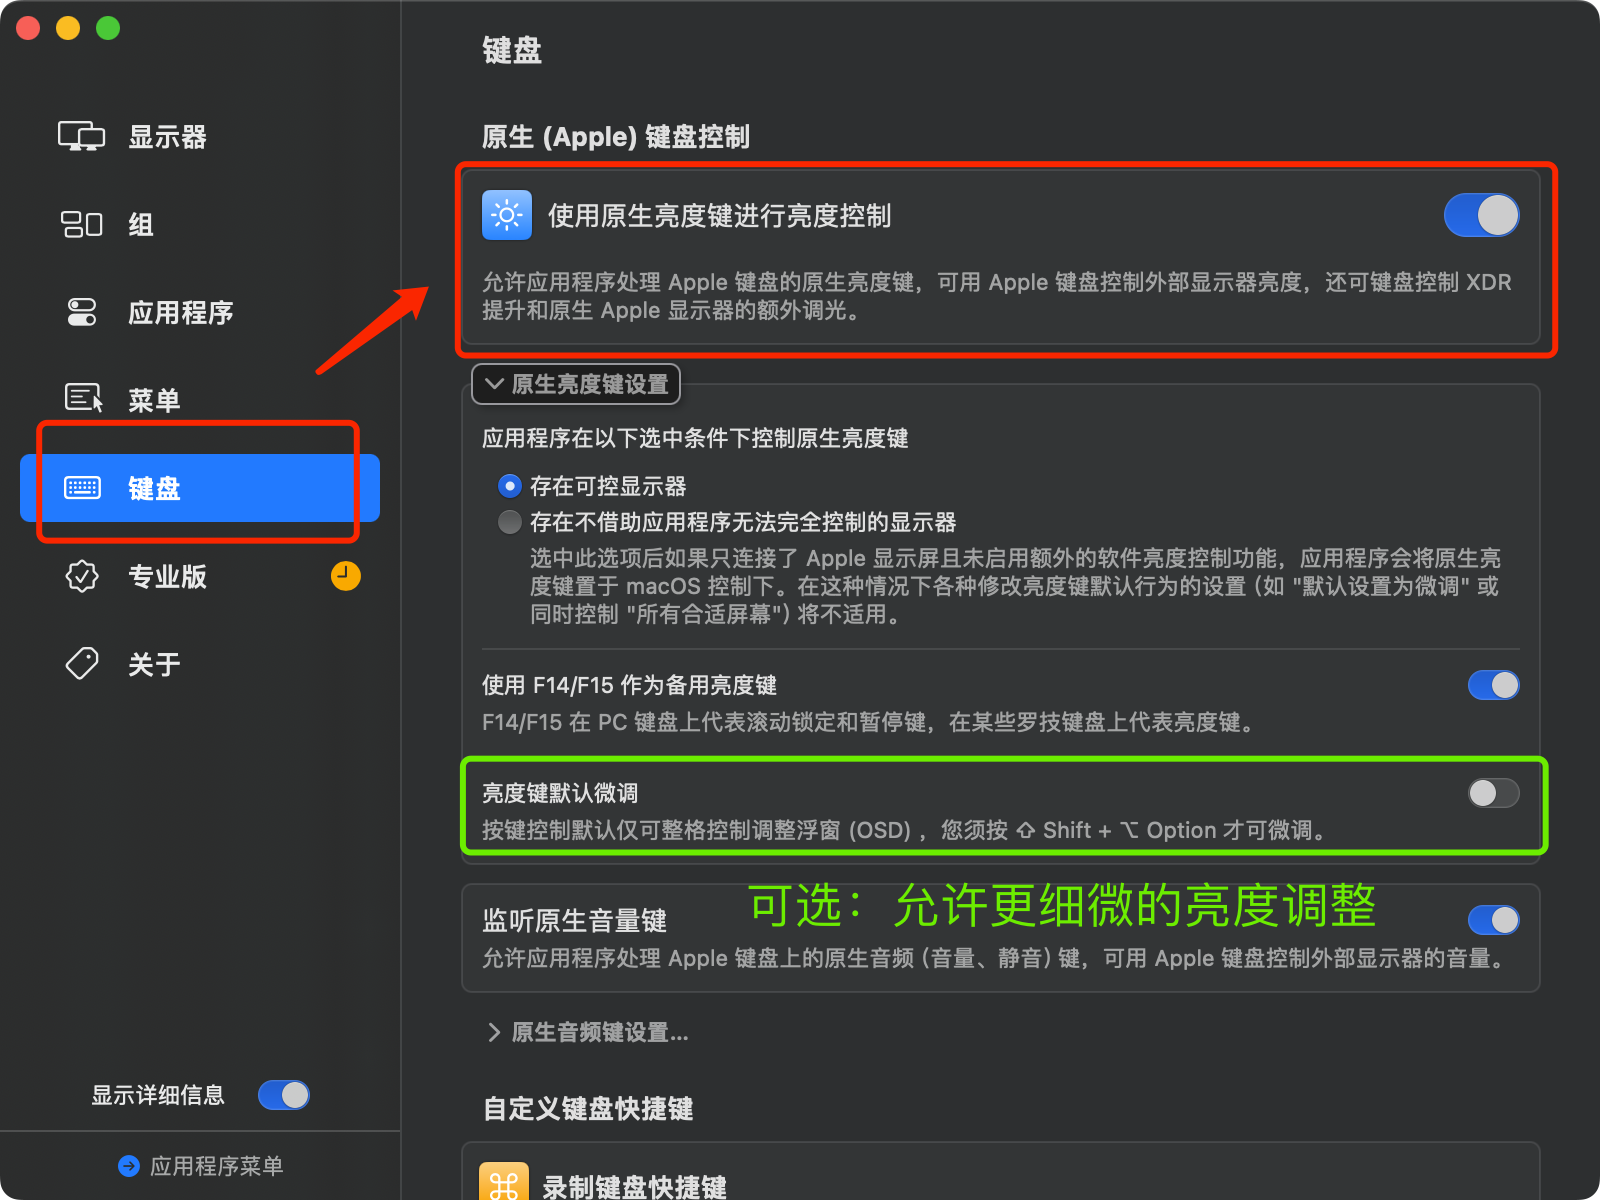
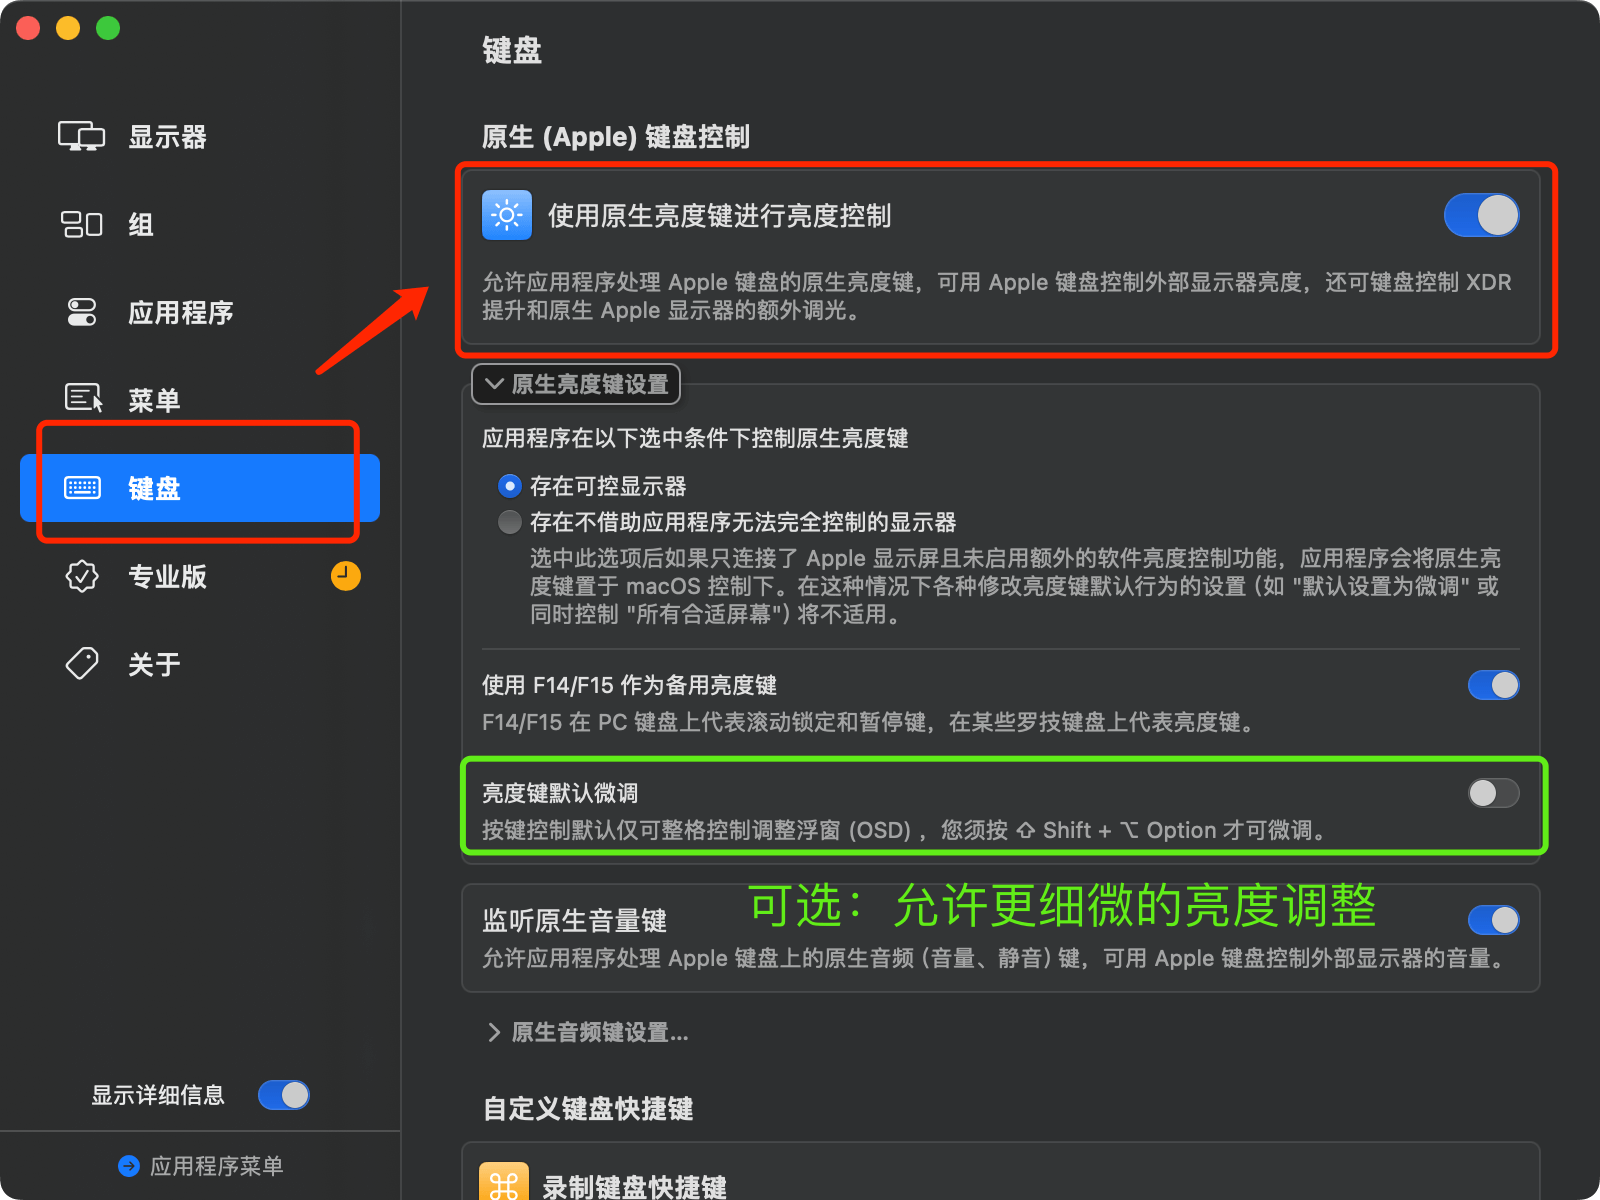
feat: 压缩图片

diff --git a/解决mbp16的miniled屏幕刺眼发黄问题/README.md b/解决mbp16的miniled屏幕刺眼发黄问题/README.md
@@ -8,7 +8,7 @@
 
 （这一步，解决了屏幕刺眼问题。）
 
-<img src='./images/1.png'/>
+<img src='./images/1.png' height="300"/>
 
 ## 二、微调色域
 
@@ -16,7 +16,7 @@
 
 （这一步，解决了屏幕发黄问题。）
 
-<img src='./images/2.png'/>
+<img src='./images/2.png' height="300"/>
 
 ## 三、调整对比度
 
@@ -26,7 +26,7 @@
 
 （这一步，解决了屏幕整体色域颜色对比不明显的问题）
 
-<img src='./images/3.png'/>
+<img src='./images/3.png' height="300"/>
 
 ## 四、支持键盘控制亮度
 
@@ -34,5 +34,4 @@
 
 按快捷键 `command + ,` 打开设置页面，左侧选择 `键盘`，右侧打开`使用原生亮度键进行亮度控制`，如下图所示：
 
-
-<img src='./images/4.png'/>
+<img src='./images/4.png' height="300"/>
